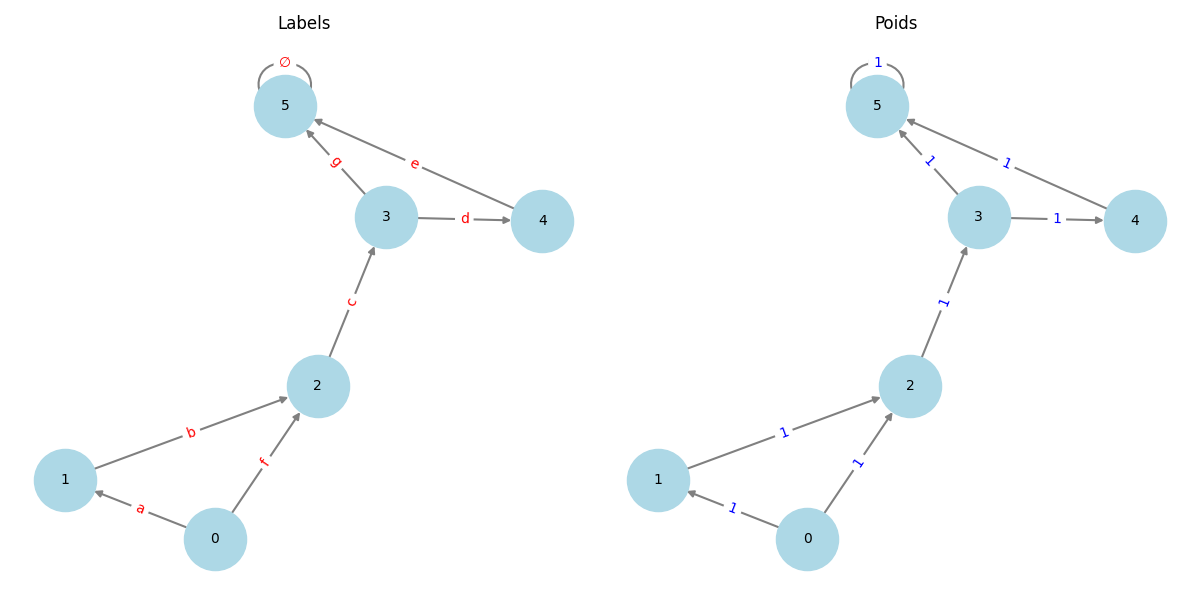
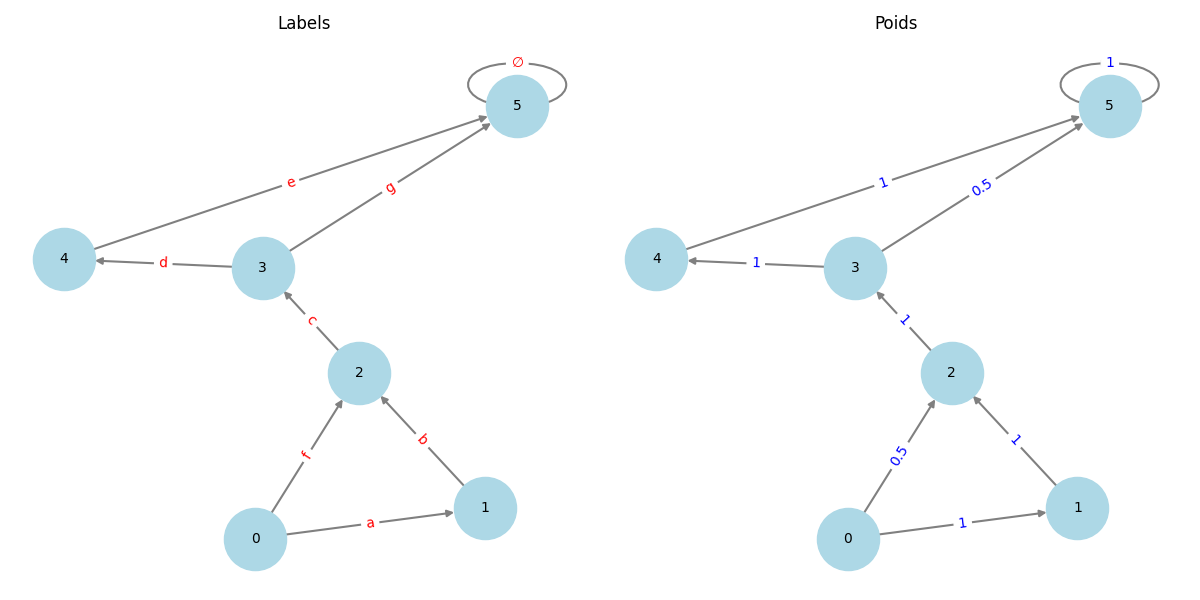
add moyenne geometrique

diff --git a/utils.py b/utils.py
@@ -143,7 +143,9 @@ def compute_score(state_path,graph, agg: lambda liste: np.mean(liste), choice=Fa
 def perplexite_agg(liste_score):
     assert len(liste_score)>0
     N= len(liste_score)
-    return np.exp(-(1/N)* np.sum(np.log(liste_score)))
+    return np.exp((1/N)* np.sum(np.log(liste_score)))
+
+
 
 def gamma_agg(liste_score,gamma=.9):
     #aggregation qui prend en compte la position de l'événement dans le chemin, les événements plus proches du début du chemin sont plus importants que ceux proches de la fin
@@ -156,6 +158,15 @@ def gamma_agg(liste_score,gamma=.9):
         return (N - np.sum(liste_score))/N
     sum_gamma = (1- gamma**(N))/(1 -gamma)
     return (sum_gamma - np.sum(liste_score))/sum_gamma
+
+def mean_geometrique_agg(liste_score):
+    assert len(liste_score)>0
+    N = len(liste_score)
+    prod = np.prod(liste_score)
+    return (1- prod**(1/N))
+
+
+
 
 def seuil_agg(liste_score, seuil=0.4):
     assert len(liste_score)>0
